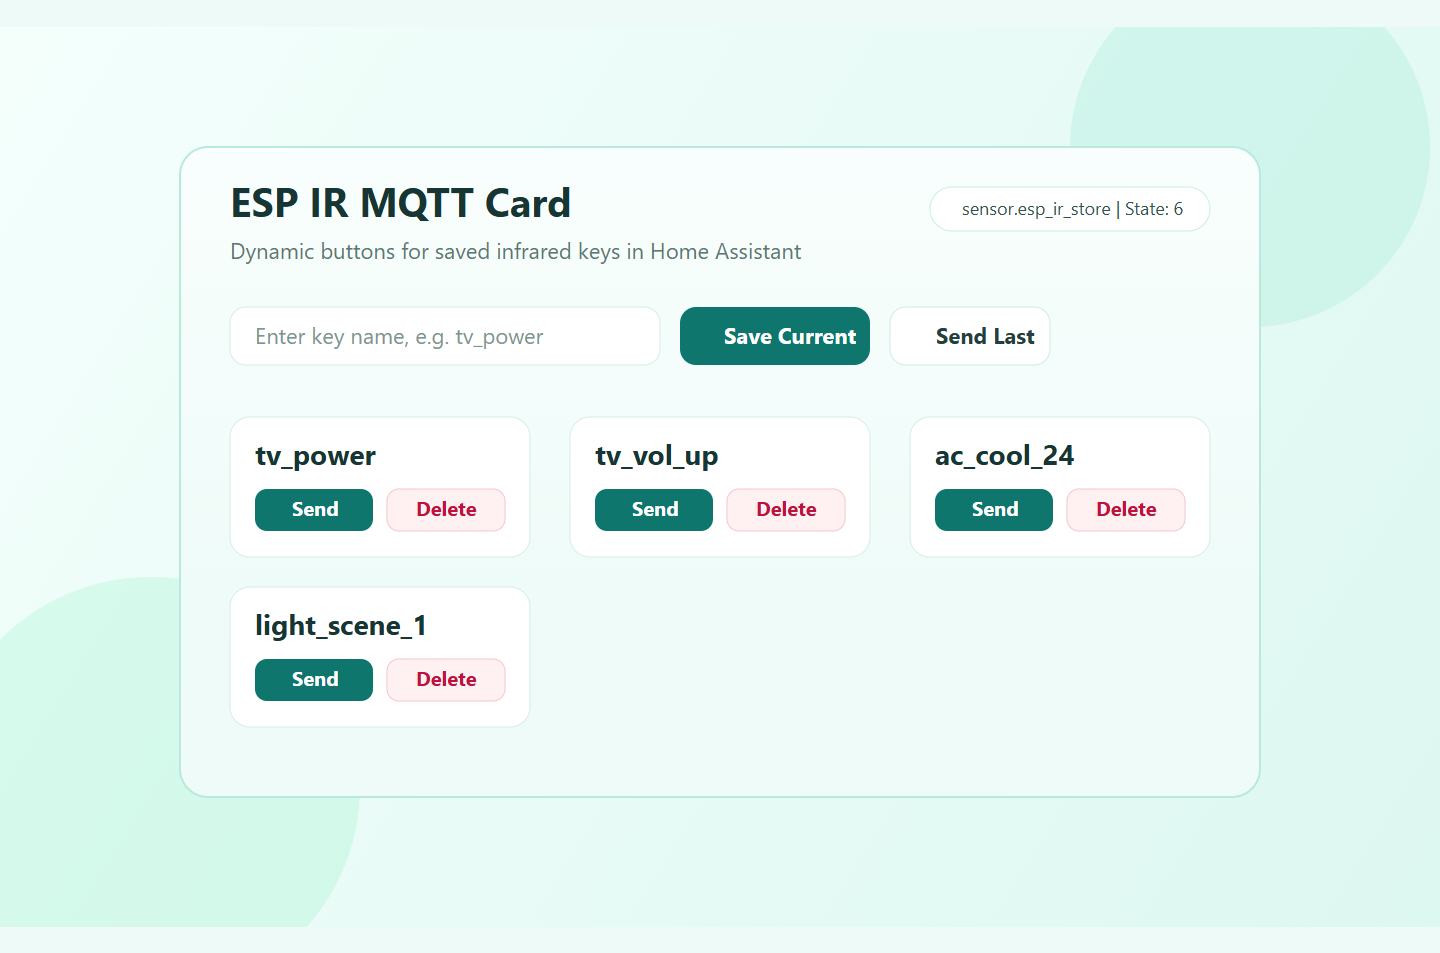
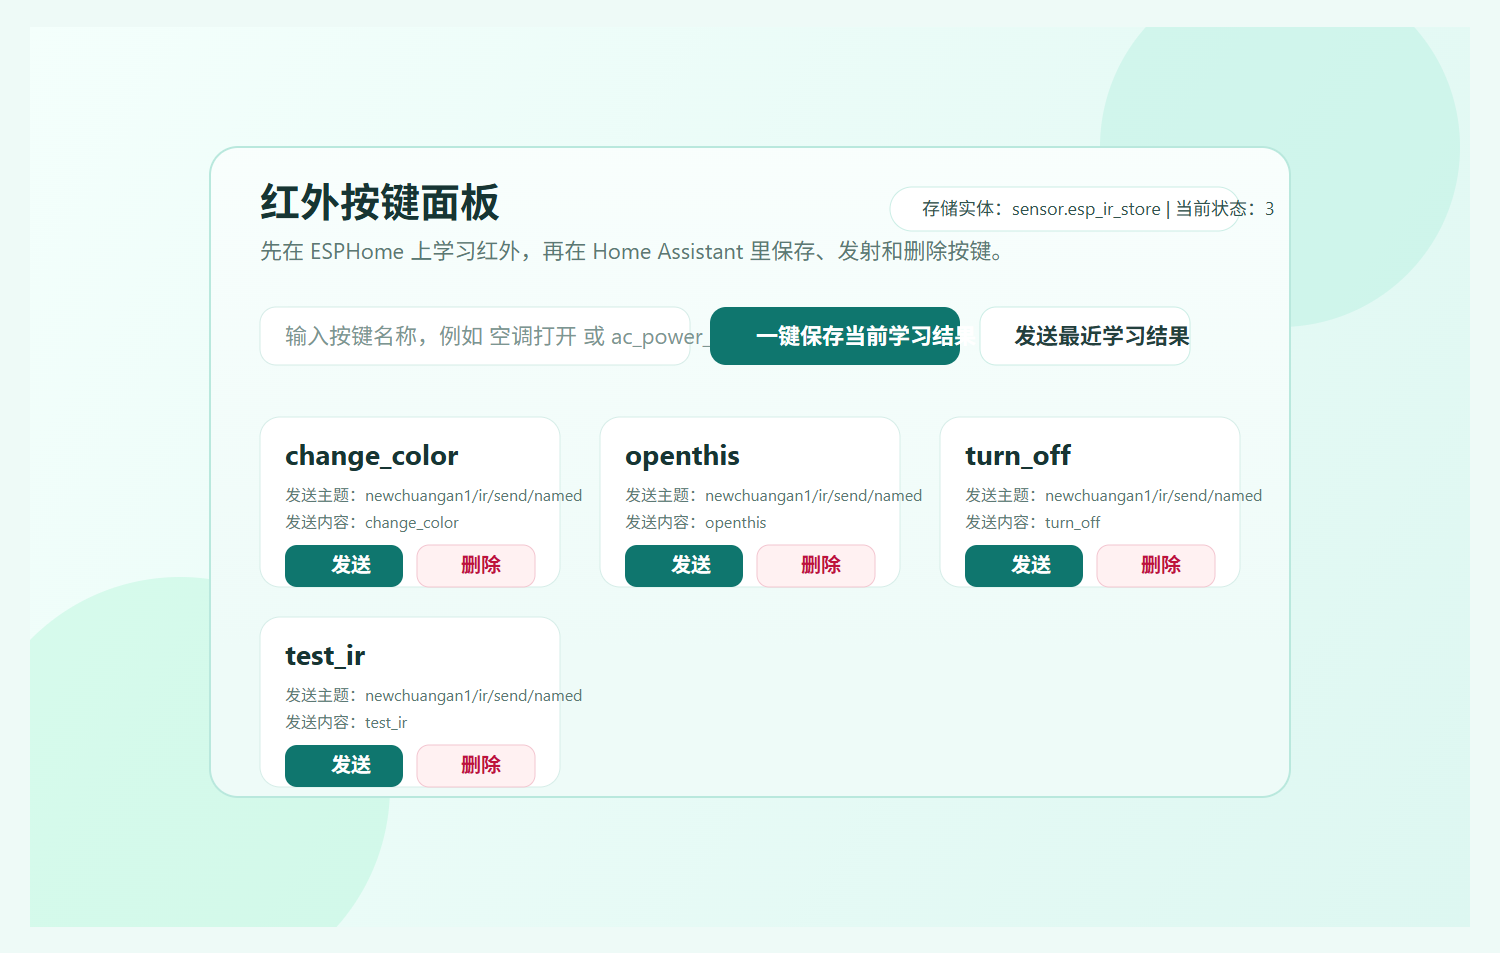
Simplify card actions and refresh preview

diff --git a/esp-ir-mqtt-card.js b/esp-ir-mqtt-card.js
@@ -25,7 +25,6 @@ class EspIrMqttCard extends HTMLElement {
       ...config,
     };
     this._pendingDelete = null;
-    this._expandedYamlKey = null;
     if (!this.shadowRoot) {
       this.attachShadow({ mode: "open" });
     }
@@ -124,29 +123,6 @@ class EspIrMqttCard extends HTMLElement {
     this._render();
   }
 
-  _buildAutomationYaml(name) {
-    return `alias: 红外按键 - ${name}
-sequence:
-  - service: mqtt.publish
-    data:
-      topic: ${this._config.topic_prefix}/send/named
-      payload: "${name}"
-mode: single`;
-  }
-
-  async _copyAutomationYaml(name) {
-    const yaml = this._buildAutomationYaml(name);
-    try {
-      await navigator.clipboard.writeText(yaml);
-      this._expandedYamlKey = null;
-      this._toast(`已复制 ${name} 的自动化示例`);
-    } catch (_err) {
-      this._expandedYamlKey = this._expandedYamlKey === name ? null : name;
-      this._toast("自动复制失败，已展开文本，可手动复制");
-      this._render();
-    }
-  }
-
   _sendLast() {
     this._publish(`${this._config.topic_prefix}/send/last`, "1");
     this._toast("正在发送最近学习结果");
@@ -173,8 +149,6 @@ mode: single`;
     const entityState = stateObj ? stateObj.state : "unavailable";
     const exampleName = this._config.default_example_name || "test_ir";
     const sendNamedTopic = `${this._config.topic_prefix}/send/named`;
-    const saveAsTopic = `${this._config.topic_prefix}/save_as`;
-    const deleteTopic = `${this._config.topic_prefix}/delete`;
 
     this.shadowRoot.innerHTML = `
       <style>
@@ -228,20 +202,6 @@ mode: single`;
           gap: 10px;
           margin-bottom: 18px;
         }
-        .helper {
-          margin-bottom: 18px;
-          padding: 14px 16px;
-          border-radius: 18px;
-          background: rgba(255,255,255,0.78);
-          border: 1px solid rgba(15, 118, 110, 0.12);
-          color: var(--esp-ir-text);
-          line-height: 1.6;
-        }
-        .helper-title {
-          font-weight: 700;
-          margin-bottom: 8px;
-        }
-        .helper code,
         .topic code {
           display: inline-block;
           padding: 2px 8px;
@@ -332,38 +292,6 @@ mode: single`;
           background: #be123c;
           color: white;
         }
-        .copy {
-          background: #eff6ff;
-          color: #1d4ed8;
-          border: 1px solid rgba(29, 78, 216, 0.14);
-        }
-        .yaml-box {
-          margin-top: 8px;
-          padding: 12px;
-          border-radius: 14px;
-          background: #f8fafc;
-          border: 1px solid rgba(15, 23, 42, 0.08);
-        }
-        .yaml-title {
-          font-size: 0.84rem;
-          font-weight: 700;
-          color: var(--esp-ir-text);
-          margin-bottom: 8px;
-        }
-        textarea {
-          width: 100%;
-          min-height: 140px;
-          box-sizing: border-box;
-          border: 1px solid rgba(22, 51, 49, 0.12);
-          border-radius: 12px;
-          padding: 12px;
-          resize: vertical;
-          font-family: Consolas, "Courier New", monospace;
-          font-size: 0.82rem;
-          line-height: 1.5;
-          background: white;
-          color: var(--esp-ir-text);
-        }
         .empty {
           padding: 24px 14px;
           text-align: center;
@@ -409,14 +337,6 @@ mode: single`;
             <button class="secondary" id="send-last-btn">发送最近学习结果</button>
           </div>
 
-          <div class="helper">
-            <div class="helper-title">自动化控制说明</div>
-            <div>保存当前学习结果的主题：<code>${saveAsTopic}</code></div>
-            <div>按名字发射的主题：<code>${sendNamedTopic}</code></div>
-            <div>删除已保存按键的主题：<code>${deleteTopic}</code></div>
-            <div>推荐示例：向 <code>${sendNamedTopic}</code> 发布 payload <code>${exampleName}</code></div>
-          </div>
-
           ${
             !stateObj
               ? `<div class="error">存储实体 <strong>${this._config.store_entity}</strong> 当前不可用。请先创建 MQTT 传感器，然后重载 Home Assistant。</div>`
@@ -429,8 +349,6 @@ mode: single`;
                 ? keys
                     .map((key) => {
                       const confirming = this._pendingDelete === key;
-                      const expanded = this._expandedYamlKey === key;
-                      const yaml = this._buildAutomationYaml(key);
                       return `
                         <div class="key">
                           <div class="key-name">${key}</div>
@@ -440,26 +358,17 @@ mode: single`;
                           </div>
                           <div class="key-actions">
                             <button class="primary send-btn" data-key="${key}">发送</button>
-                            <button class="copy copy-btn" data-key="${key}">复制自动化示例</button>
                             ${
                               confirming
                                 ? `<button class="confirm delete-confirm-btn" data-key="${key}">确认删除</button>`
                                 : `<button class="delete delete-btn" data-key="${key}">删除</button>`
                             }
                           </div>
-                          ${
-                            expanded
-                              ? `<div class="yaml-box">
-                                  <div class="yaml-title">自动化 YAML 示例，请手动复制</div>
-                                  <textarea readonly>${yaml}</textarea>
-                                </div>`
-                              : ``
-                          }
                         </div>
                       `;
                     })
                     .join("")
-                : `<div class="empty">还没有保存任何按键。请先学习红外，然后点击“一键保存当前学习结果”。<br /><br />自动化示例：向 <code>${sendNamedTopic}</code> 发布 <code>${exampleName}</code></div>`
+                : `<div class="empty">还没有保存任何按键。请先学习红外，然后点击“一键保存当前学习结果”。</div>`
             }
           </div>
         </div>
@@ -470,9 +379,6 @@ mode: single`;
     this.shadowRoot.getElementById("send-last-btn")?.addEventListener("click", () => this._sendLast());
     this.shadowRoot.querySelectorAll(".send-btn").forEach((button) => {
       button.addEventListener("click", (ev) => this._sendNamed(ev.currentTarget.dataset.key));
-    });
-    this.shadowRoot.querySelectorAll(".copy-btn").forEach((button) => {
-      button.addEventListener("click", (ev) => this._copyAutomationYaml(ev.currentTarget.dataset.key));
     });
     this.shadowRoot.querySelectorAll(".delete-btn").forEach((button) => {
       button.addEventListener("click", (ev) => {

diff --git a/README.md b/README.md
@@ -111,10 +111,10 @@ default_example_name: test_ir
 
 The card publishes these MQTT commands through Home Assistant:
 
-- `Save Current` -> `newchuangan1/ir/save_as`
-- `Send` -> `newchuangan1/ir/send/named`
-- `Delete` -> `newchuangan1/ir/delete`
-- `Send Last` -> `newchuangan1/ir/send/last`
+- `一键保存当前学习结果` -> `newchuangan1/ir/save_as`
+- `发送` -> `newchuangan1/ir/send/named`
+- `删除` -> `newchuangan1/ir/delete`
+- `发送最近学习结果` -> `newchuangan1/ir/send/last`
 
 The dynamic button list comes from:
 
